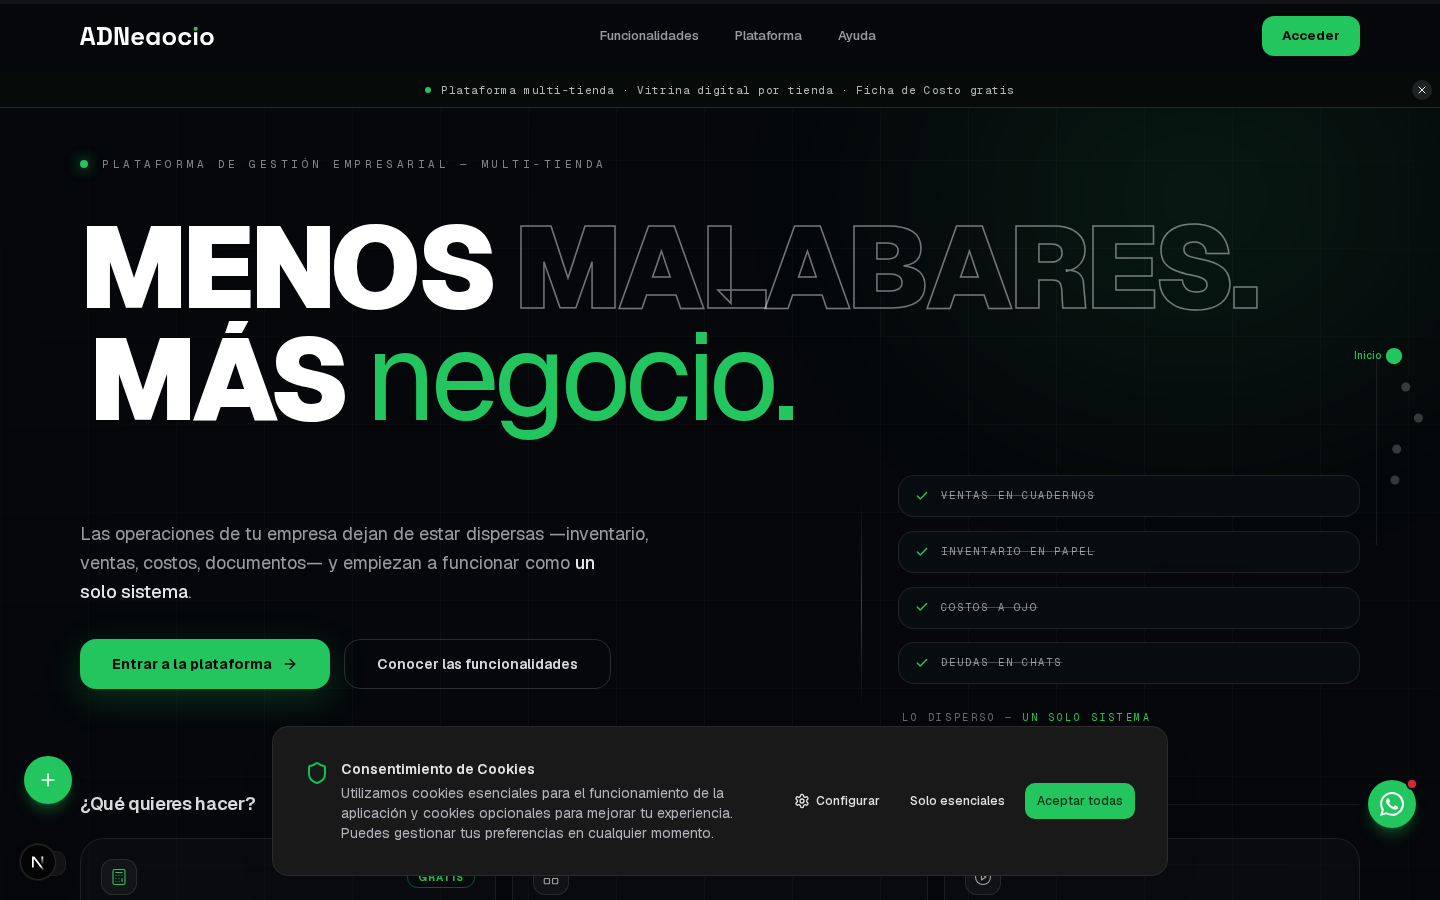
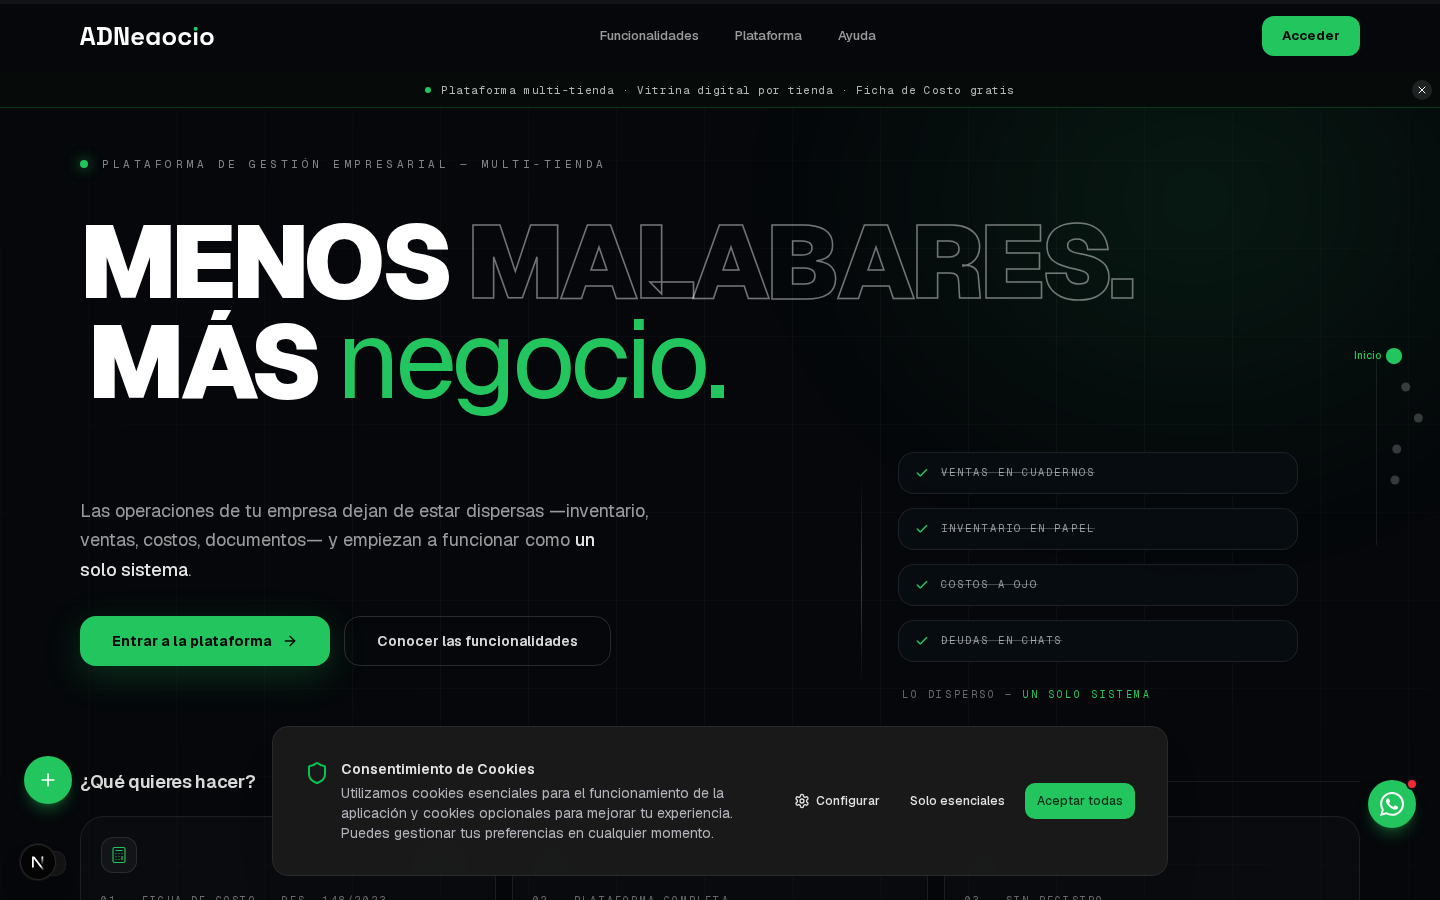
fix(landing): ADN-BRAND-HERO-REFINEMENT-002 — integridad tipográfica del titular en todos los viewports: tamaño fluido recalculado (10.5vw móvil / 7.2vw y cap 7.2rem ≥sm) para el ancho real de «MENOS MALABARES.» en Archivo Expanded Black + whitespace-nowrap (la palabra es una unidad, el quiebre solo

diff --git a/src/components/landing/HeroSection.tsx b/src/components/landing/HeroSection.tsx
@@ -252,7 +252,7 @@ function HeroHeadline() {
   const reduceMotion = useReducedMotion();
 
   return (
-    <h1 className="font-[family-name:var(--font-display)] font-black [font-stretch:125%] tracking-[-0.045em] leading-[0.94] text-[clamp(2.7rem,8vw,8.4rem)] text-white select-none">
+    <h1 className="font-[family-name:var(--font-display)] font-black [font-stretch:125%] tracking-[-0.045em] leading-[0.94] text-[clamp(2.35rem,10.5vw,7.2rem)] sm:text-[clamp(2.8rem,7.2vw,7.2rem)] text-white select-none">
       {/* Nombre accesible completo; la capa visual es decorativa (letras
           separadas por spans no se leen bien en SR). */}
       <span className="sr-only">MENOS MALABARES. MÁS NEGOCIO.</span>
@@ -270,7 +270,12 @@ function HeroHeadline() {
           >
             MENOS&nbsp;
           </motion.span>
-          <span className="block sm:inline">
+          {/* whitespace-nowrap: la palabra MALABARES. es UNA unidad — el quiebre
+              de línea solo puede ocurrir antes de la palabra (límite de
+              palabra), jamás entre letterforms (evita «MA / LABARES.» en
+              cualquier viewport; el tamaño fluido 7.2vw/cap 7.2rem mantiene la
+              línea completa «MENOS MALABARES.» dentro del contenedor). */}
+          <span className="block sm:inline whitespace-nowrap">
             {MALABARES_LETTERS.map((ch, i) => (
               <motion.span
                 key={`${ch}-${i}`}

diff --git a/docs/audits/adnegocio-brand-hero-refinement-002/RESPONSIVE_VALIDATION.md b/docs/audits/adnegocio-brand-hero-refinement-002/RESPONSIVE_VALIDATION.md
@@ -4,17 +4,18 @@
 
 ## 1. Resultado por viewport (con dev server local)
 
-| Viewport | Overflow horizontal | h1 computado | Wordmark header | Caminos FIX-ENTRY | Resultado |
-|---|---|---|---|---|---|
-| 360×740 | scrollW 360 = innerW 360 (0 px) | 40px / w900 / stretch **125%** / stroke 1.5px | visible | 3/3 | **OK** |
-| 390×844 | 0 px | 43.2px / w900 / 125% / 1.5px | visible | 3/3 | **OK** |
-| 768×1024 | 0 px | 61.4px / w900 / 125% / 1.5px | visible | 3/3 | **OK** |
-| 1024×768 | 0 px | 81.9px / w900 / 125% / 1.5px | visible | 3/3 | **OK** |
-| 1440×900 | 0 px | 115.2px / w900 / 125% / 1.5px | visible | 3/3 | **OK** |
-| 1920×1080 | 0 px | 134.4px / w900 / 125% / 1.5px | visible | 3/3 | **OK** |
+| Viewport | Overflow horizontal | h1 computado | Palabra íntegra | Wordmark header | Caminos FIX-ENTRY | Resultado |
+|---|---|---|---|---|---|---|
+| 360×740 | scrollW 360 = innerW 360 (0 px) | 40px / w900 / stretch **125%** / stroke 1.5px | sí | visible | 3/3 | **OK** |
+| 390×844 | 0 px | 40.9px / w900 / 125% / 1.5px | sí | visible | 3/3 | **OK** |
+| 768×1024 | 0 px | 55.3px / w900 / 125% / 1.5px | sí | visible | 3/3 | **OK** |
+| 1024×768 | 0 px | 73.7px / w900 / 125% / 1.5px | sí | visible | 3/3 | **OK** |
+| 1440×900 | 0 px | 103.7px / w900 / 125% / 1.5px | sí | visible | 3/3 | **OK** |
+| 1920×1080 | 0 px | 115.2px / w900 / 125% / 1.5px | sí | visible | 3/3 | **OK** |
 
 - `font-stretch: 125%` resuelto por el navegador → el eje `wdth` de Archivo está activo (monumental expandida confirmada, no es el fallback).
 - Texto accesible del h1 = «MENOS MALABARES. MÁS NEGOCIO.» (sr-only) en todos los viewports.
+- **Integridad de palabra verificada programáticamente**: el wrapper inline de las letras de «MALABARES.» debe ocupar UN solo rect (`getClientRects().length === 1`) — detecta roturas tipo «MA / LABARES.» en cualquier viewport.
 - **0 errores de consola** en los 6 viewports.
 
 ## 2. prefers-reduced-motion (emulación Playwright `reducedMotion: 'reduce'`)
@@ -28,9 +29,13 @@
 ## 3. Correcciones aplicadas durante la validación
 
 1. **Móvil 390:** «MALABARES.» se partía a mitad de palabra («MA / LABARES.») porque cada letra es un `inline-block` y la línea completa no cabía. Solución: en `<sm` cada palabra del verso 1 es su propia línea monumental (`block sm:inline` en el contenedor de letras) — 3 líneas en móvil, 2 en ≥sm. **Nunca se parte una palabra.**
-2. **Banner promo móvil:** la X de cierre solapaba el texto → padding simétrico `px-9` + `truncate`.
-3. **Ticker apagado:** el degradado inferior (h-44) lo cubría → altura reducida a h-24 y texto `white/42` (legible, sigue siendo sutil y decorativo `aria-hidden`).
-4. **Chips**: contenedor limitado a `max-w-[400px]` para compacidad editorial.
+2. **Desktop 1920 (detectado en la revisión visual post-validación):** con el tamaño inicial `8vw/cap 8.4rem` la línea completa «MENOS MALABARES.» (~11.4em medidos en Archivo Expanded Black) excedía el contenedor de 1360px y volvía a partir la palabra. Solución definitiva en dos capas:
+   - Tamaño fluido recalculado para el ancho real de la línea: `clamp(2.35rem, 10.5vw, 7.2rem)` en móvil (palabras apiladas) y `sm:clamp(2.8rem, 7.2vw, 7.2rem)` en ≥sm (línea completa verificada hasta 1920: 11.4em × 115.2px = 1314px ≤ 1360px).
+   - Guardia estructural: `whitespace-nowrap` en el contenedor de letras — «MALABARES.» es UNA unidad; el quiebre solo puede ocurrir en el límite de palabra, jamás entre letterforms.
+   - El validador quedó extendido con el chequeo de rects (§1) para que esta regresión no pueda reincidír sin FALLAR la batería.
+3. **Banner promo móvil:** la X de cierre solapaba el texto → padding simétrico `px-9` + `truncate`.
+4. **Ticker apagado:** el degradado inferior (h-44) lo cubría → altura reducida a h-24 y texto `white/42` (legible, sigue siendo sutil y decorativo `aria-hidden`).
+5. **Chips**: contenedor limitado a `max-w-[400px]` para compacidad editorial.
 
 ## 4. Interacciones verificadas manualmente (Playwright)
 
@@ -43,4 +48,4 @@
 
 - `TypeCheck + Lint + Unit Tests + Build` (build completo en runner de CI — el sandbox local OOM en el paso TS interno de `next build`; cobertura equivalente local con `tsc --noEmit` exit 0).
 - `Unit & Integration` (local: **6167/6167 PASS**).
-- `E2E Aislado (project)` — el workflow es manual (workflow_dispatch) según configuración del repo; el fallo previo del PR (aserción «COSTPRO» obsoleta en `fc-template-picker.spec.ts:516`) quedó corregido en la fase A.
+- `E2E Aislado (project)` — el fallo previo del PR (aserción «COSTPRO» obsoleta en `fc-template-picker.spec.ts:516`) quedó corregido en la fase A.
